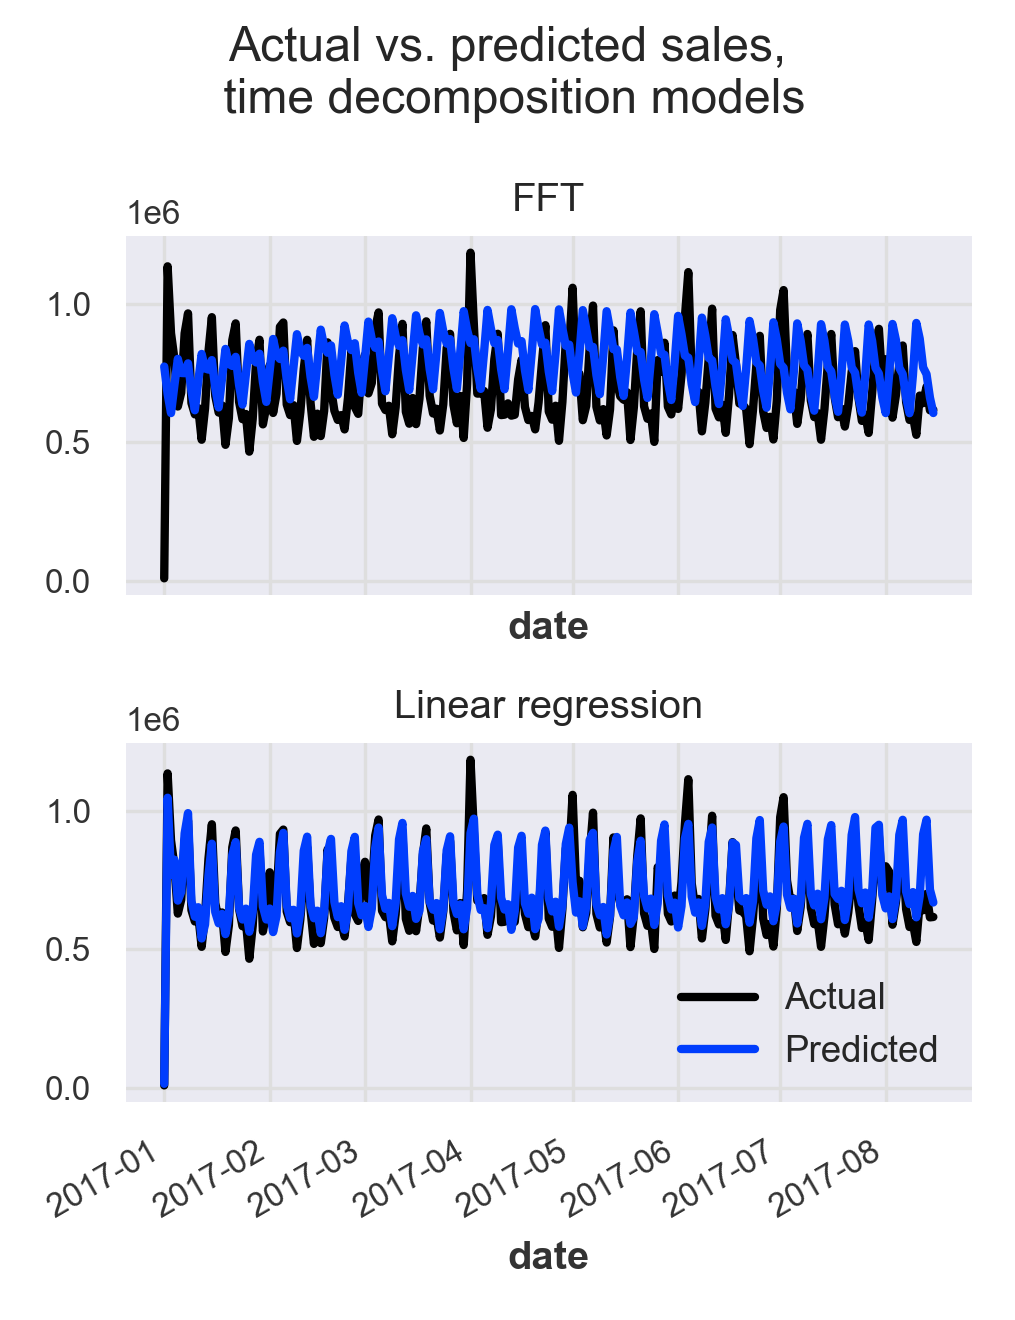
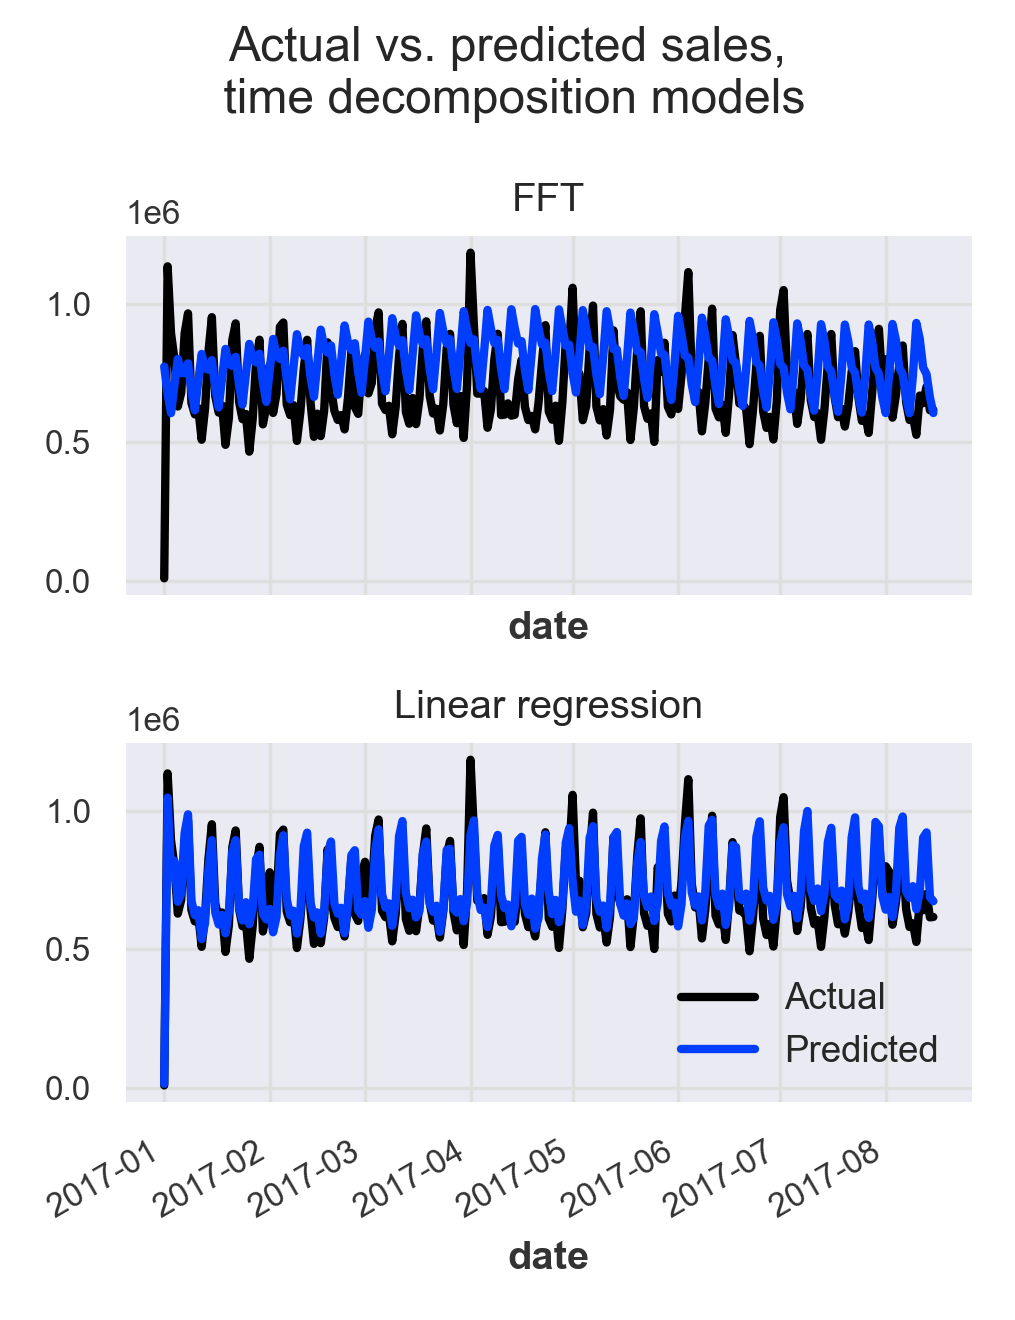
Finish decomposition model

diff --git a/ModelTime.py b/ModelTime.py
@@ -79,6 +79,13 @@ def trafo_exp(x):
   return x.map(lambda x: np.exp(x)-1)
 
 
+# Fill missing values (December 25)
+from darts.dataprocessing.transformers import MissingValuesFiller
+na_filler = MissingValuesFiller()
+ts = na_filler.transform(ts)
+ts_timefeats = na_filler.transform(ts_timefeats)
+
+
 # Train-test split
 y_train, y_val = trafo_log(ts[:-227]), trafo_log(ts[-227:])
 x_train, x_val = ts_timefeats[:-227], ts_timefeats[-227:]
@@ -118,7 +125,7 @@ pred_linear = model_linear.predict(n = 227, future_covariates = x_val)
 
 
 # Define model scoring function
-from darts.metrics import mape, rmse
+from darts.metrics import mape, rmse, rmsle
 def perf_scores(val, pred, model="drift"):
   
   scores_dict = {
@@ -165,9 +172,65 @@ plt.close("all")
 
 
 # Backtest linear regression
+# array([120080.4214,         nan,     31.611 ])
+model_linear.backtest(
+  ts, future_covariates = ts_timefeats, start = 365,
+  forecast_horizon = 15, stride = 1, metric = [rmse, rmsle, mape],
+  verbose = True)
 
 
-# Retrieve residuals for 2014-2017 and diagnose them
+# Retrieve historical forecasts for linear regression
+pred_linear_hist = model_linear.historical_forecasts(
+  ts, future_covariates = ts_timefeats, start = 365,
+  forecast_horizon = 15, stride = 1,
+  verbose = True)
+
+
+# Plot historical forecasts for linear regression
+ts.plot(label="Actual")
+pred_linear_hist.plot(label="Predicted")
+plt.title("Time decomposition linear model,\n historical forecasts")
+plt.ylabel("sales")
+plt.show()
+plt.savefig("./Plots/TimeModel/LinearHistorical.png", dpi=300)
+plt.close("all")
+
+
+# Retrieve residuals for 2014-2017
+res_linear = model_linear.residuals(
+  trafo_log(ts), future_covariates = ts_timefeats, forecast_horizon = 1,
+  verbose = True)
+sales_decomped = res_linear[350:]
+
+
+# Diagnose decomped sales innovation residuals
+from darts.utils.statistics import plot_residuals_analysis, plot_pacf
+plot_residuals_analysis(sales_decomped)
+plt.show()
+plt.savefig("./Plots/TimeModel/InnoResidsDiag.png", dpi=300)
+plt.close("all")
+
+
+# PACF plot of decomped sales residuals
+plot_pacf(sales_decomped, max_lag=56)
+plt.title("Partial autocorrelation plot,\n time decomposed sales")
+plt.xlabel("Lags")
+plt.ylabel("PACF")
+plt.xticks(np.arange(0, 56, 10))
+plt.xticks(np.arange(0, 56, 1), minor=True)
+plt.grid(which='minor', alpha=0.5)
+plt.grid(which='major', alpha=1)
+plt.show()
+plt.savefig("./Plots/TimeModel/PACFInnoResids.png", dpi=300)
+plt.close("all")
+
+
+# KPSS and ADF stationarity test on decomped sales residuals
+from darts.utils.statistics import stationarity_test_kpss, stationarity_test_adf
+stationarity_test_kpss(sales_decomped) # Null rejected, data is non-stationary
+stationarity_test_adf(sales_decomped) # Null rejected, data is stationary around a constant
 
 
 # Save decomposed sales for lags & covariates EDA
+sales_decomped.pd_dataframe().to_csv(
+  "./ModifiedData/Final/sales_decomped.csv", index=True, encoding="utf-8")
